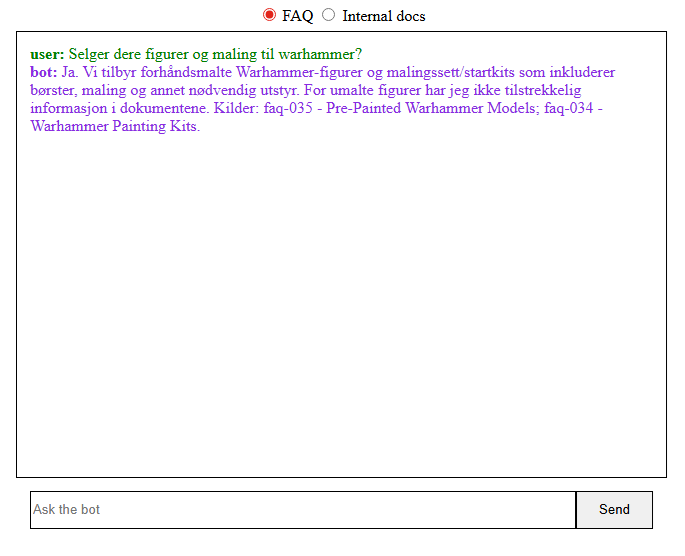
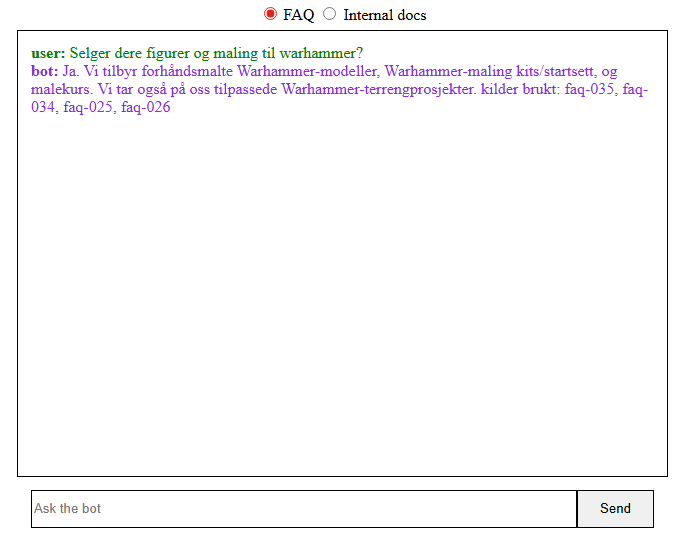
oppdatert bilde og top k selection

diff --git a/chatbot.py b/chatbot.py
@@ -86,10 +86,10 @@ def chatbot(type, question, history=None):
         scores = cosine_similarity(question_embeddings, doc_embeddings)[0]
 
         # get indexes of top hits
-        top_indices = np.argsort(scores)[::-1][:top_k]
+        top_indexes = np.argsort(scores)[::-1][:top_k]
 
         results = []
-        for i in top_indices:
+        for i in top_indexes:
             results.append({
                 "document": knowledge_base[i],
                 "score": scores[i]
@@ -98,7 +98,7 @@ def chatbot(type, question, history=None):
     # end of helper function
 
     # calling helper function to retrieve relevant documents with cosine similarity
-    retrieved = retrieve(q=question, top_k=5)
+    retrieved = retrieve(q=question, top_k=8)
     # print(retrieved)
     # retrieve relevant documents and build prompt
     context_parts = []
@@ -119,7 +119,9 @@ def chatbot(type, question, history=None):
     Du skal svare KUN basert på følgende "documents" og context/history (hvis du har blitt gitt noe).
     HVIS du IKKE klarer å produsere et godt svar utifra "documents" eller contexten du er gitt, MÅ du innrømme at du 
     mangler informasjon, og svar gjerne med "Det har jeg ikke tilstrekkelig med informasjon om" eller liknende.
-    ALLTID nevn hvilke kilder du har brukt fra "documents"
+    ALLTID nevn hvilke kilder du har brukt fra "documents" Kildehenvisninger skal KUN foregå på slutten av svaret ditt.
+    Kilder skal ALLTID være på slutten av svaret, og formattert for eksempel som "kilder brukt: faq-034, faq-025, faq-026, faq-031"
+    Du skal svare kort og ryddig.
     
     HISTORY/CONTEXT:
     {history}
